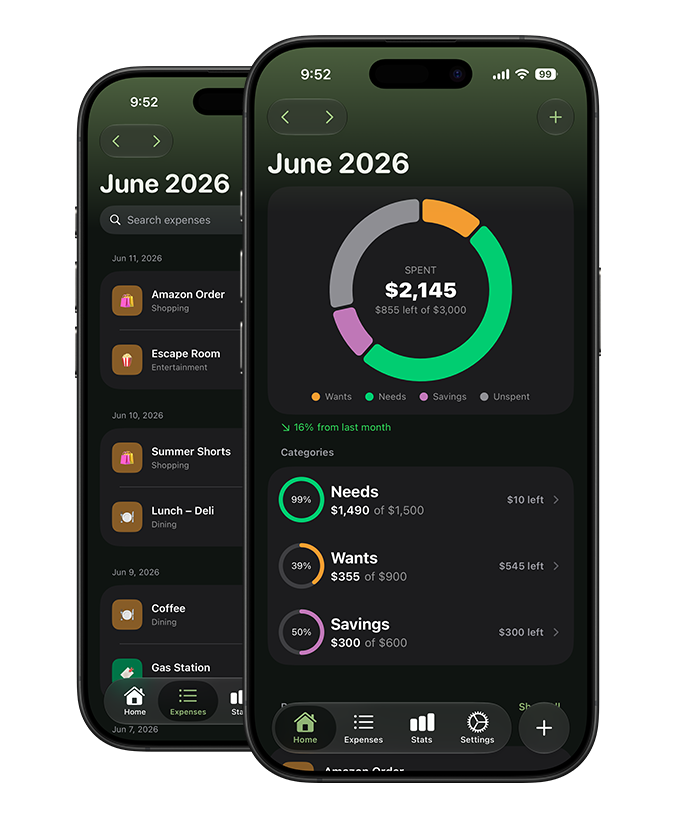
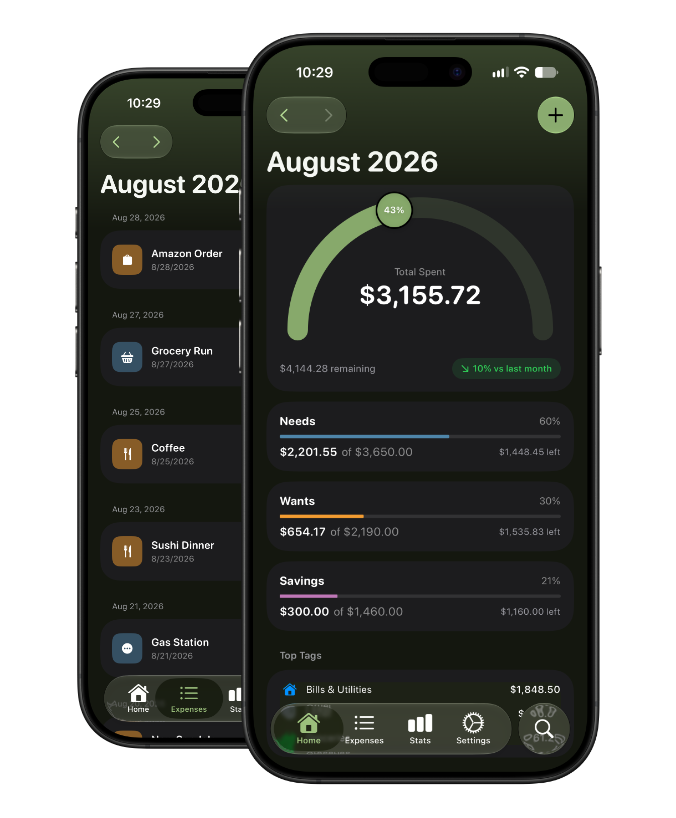
update sage website with new images and updating features list

diff --git a/src/routes/sage/+page.svelte b/src/routes/sage/+page.svelte
@@ -1,5 +1,6 @@
 <script lang="ts">
     import appIcon from '$lib/images/project-images/sage/app_icon.png';
+    import sageLogo from "$lib/images/project-images/sage/SageLogoBase.png"
     import sageHero from '$lib/images/project-images/sage/sage_hero.png';
     import Seo from '$lib/components/Seo.svelte';
 
@@ -46,11 +47,6 @@
             icon: '<svg xmlns="http://www.w3.org/2000/svg" width="24" height="24" viewBox="0 0 24 24" fill="none" stroke="currentColor" stroke-width="2" stroke-linecap="round" stroke-linejoin="round" class="lucide lucide-file-icon lucide-file"><path d="M6 22a2 2 0 0 1-2-2V4a2 2 0 0 1 2-2h8a2.4 2.4 0 0 1 1.704.706l3.588 3.588A2.4 2.4 0 0 1 20 8v12a2 2 0 0 1-2 2z"/><path d="M14 2v5a1 1 0 0 0 1 1h5"/></svg>'
         },
         {
-            tagline: 'Splitwise',
-            caption: 'Integrates directly with your Splitwise account, import from Splitwise or export to it',
-            icon: '<svg xmlns="http://www.w3.org/2000/svg" width="24" height="24" viewBox="0 0 24 24" fill="none" stroke="currentColor" stroke-width="2" stroke-linecap="round" stroke-linejoin="round" class="lucide lucide-split-icon lucide-split"><path d="M16 3h5v5"/><path d="M8 3H3v5"/><path d="M12 22v-8.3a4 4 0 0 0-1.172-2.872L3 3"/><path d="m15 9 6-6"/></svg>'
-        },
-        {
             tagline: 'Home screen widgets',
             caption: 'Monthly summaries right on your home screen.',
             icon: '<svg xmlns="http://www.w3.org/2000/svg" width="24" height="24" viewBox="0 0 24 24" fill="none" stroke="currentColor" stroke-width="2" stroke-linecap="round" stroke-linejoin="round" class="lucide lucide-grid2x2-icon lucide-grid-2x2"><path d="M12 3v18"/><path d="M3 12h18"/><rect x="3" y="3" width="18" height="18" rx="2"/></svg>'
@@ -86,10 +82,10 @@
     <div class="hero">
         <div class="hero-text">
             <div class="title-row">
-                <img src={appIcon} class="app-icon" alt="Sage app icon" />
+                <img src={sageLogo} class="app-icon" alt="Sage app icon" />
                 <h1 class="title">Sage</h1>
             </div>
-            <p>A simple, free expense tracking app. Available for iOS, iPadOS, and macOS.</p>
+            <p>A simple, free expense tracking app. Coming soon for iOS, iPadOS, and macOS.</p>
             <a href="https://testflight.apple.com/join/RWj66HUZ">
                 <text>Download now on TestFlight</text>
             </a>
@@ -117,7 +113,7 @@
     </section>
 
     <section class="coming-soon">
-        <h2 class="coming-soon-title">And coming soon...</h2>
+        <h2 class="coming-soon-title">In The Works</h2>
         <div class="feature-grid">
             {#each comingSoon as feature}
                 <div class="feature">
@@ -159,7 +155,7 @@ main {
 .title-row {
     display: flex;
     flex-direction: row;
-    align-items: center;
+    align-items: baseline;
     gap: 1rem;
 }
 
@@ -183,6 +179,11 @@ main {
 
 .title {
     font-size: 3rem;
+}
+
+.title-row .title {
+    margin: 0;
+    transform: translateY(-3px);
 }
 
 .features {
